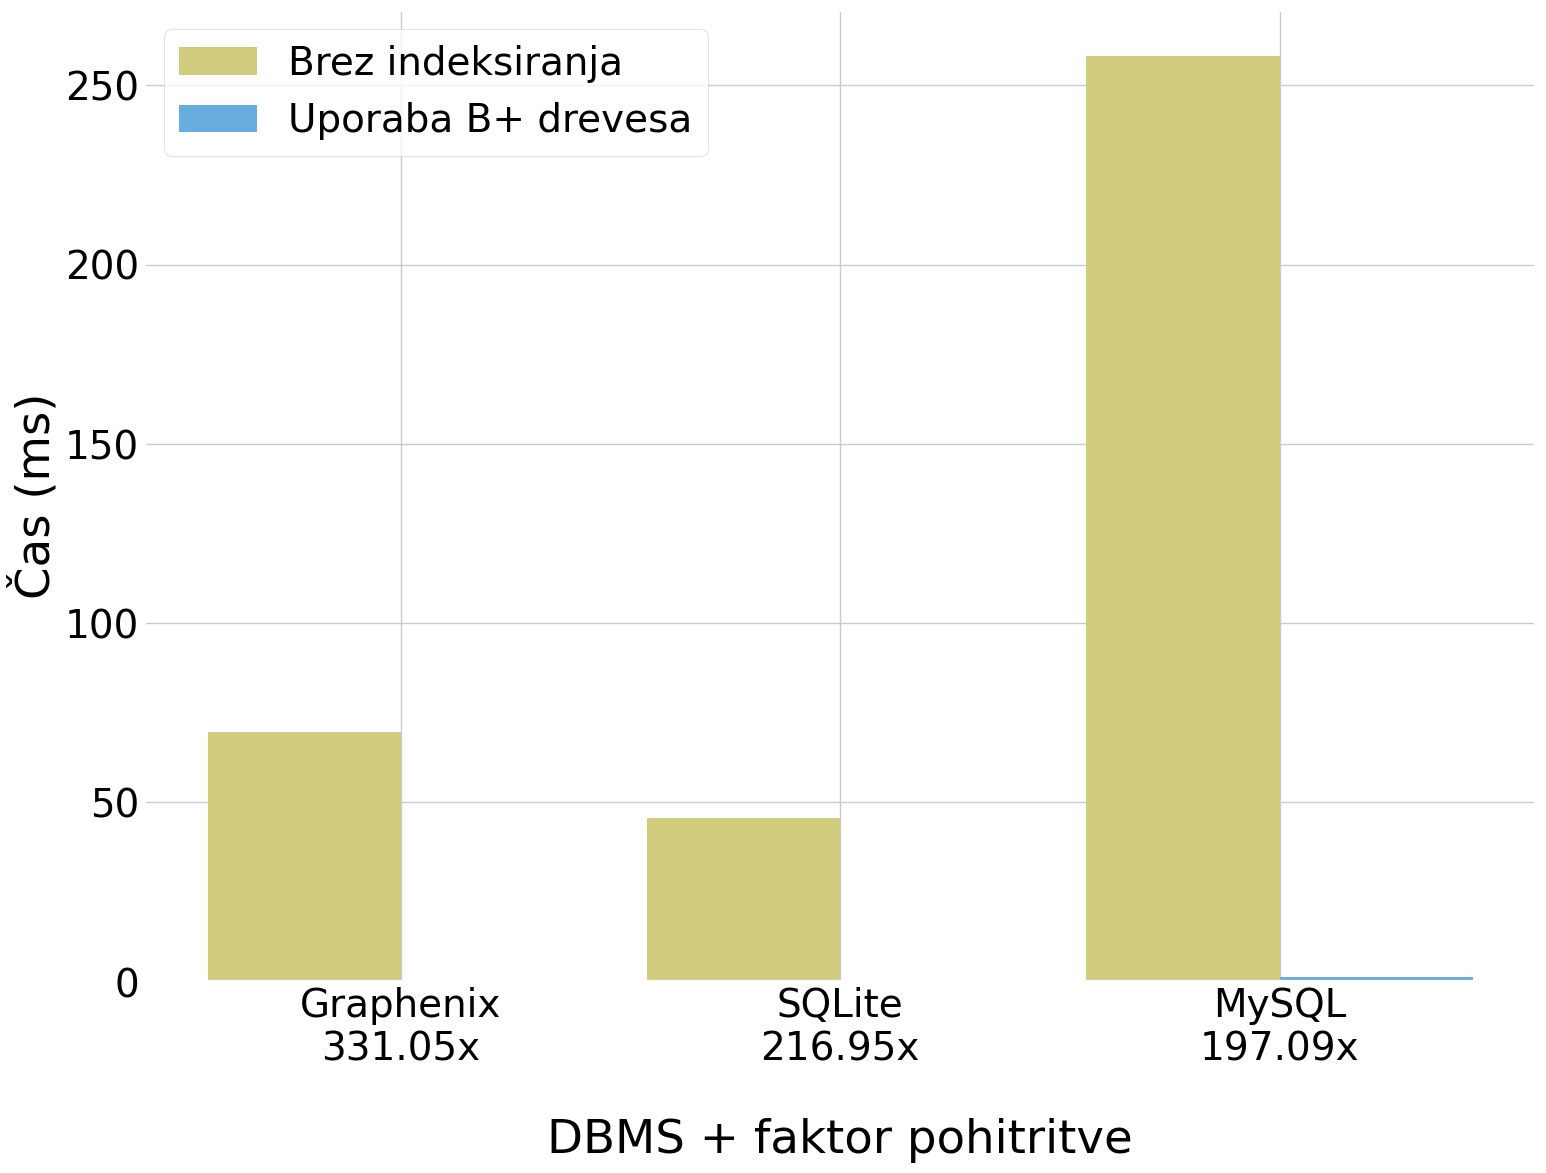
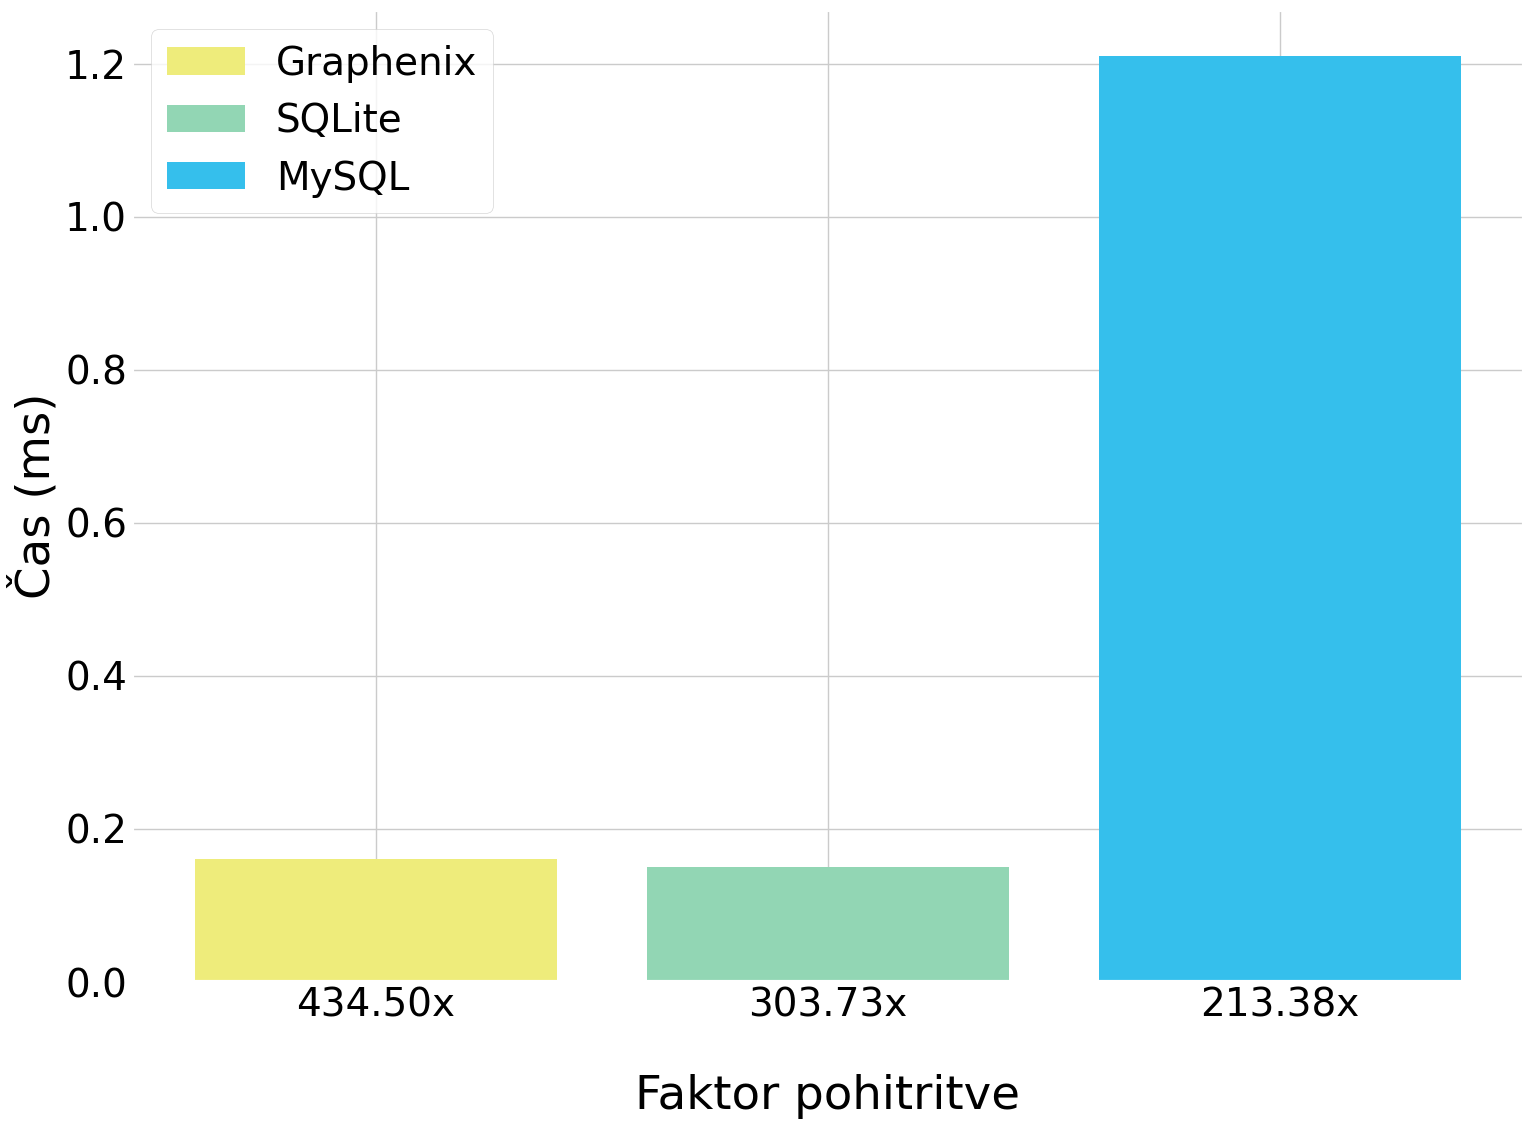
cleaner analysis for bigger indexed search

diff --git a/analysis/find_no_index/graph_size_single.py b/analysis/find_no_index/graph_size_single.py
@@ -1,0 +1,62 @@
+import numpy as np
+import matplotlib.pyplot as plt
+import sys
+
+def read_nums(file_path): 
+    try:
+        with open(file_path, 'r') as file:
+            lines = file.readlines()
+            times = [float(line.strip()) for line in lines]
+        return np.array(times)
+    except Exception as ex:
+        print("err", ex)
+        return []
+
+def main():
+    num_users = int(sys.argv[1])
+    file_indexed_1 = f'./analysis/find_index/result_{num_users}.txt'
+    file_normal_1 =  f'./analysis/find_no_index/result_{num_users}.txt'
+    
+    no_index = read_nums(file_normal_1) 
+    indexed = read_nums(file_indexed_1)
+
+    plt.style.use("fivethirtyeight")
+    plt.rcParams['figure.facecolor'] = 'white'
+    plt.rcParams['axes.facecolor'] = 'white'
+    plt.rcParams['axes.edgecolor'] = 'white'
+    plt.rcParams.update({'font.size': 2 * plt.rcParams['font.size']})
+
+    x_values = np.arange(3)
+    fig, ax = plt.subplots(figsize=(16, 12))
+    
+    ax.bar(x_values, indexed, label=['Graphenix', 'SQLite', 'MySQL'], color=['#EEEC7B', '#92D6B4', '#35BFEC'])
+
+    # Set labels and title
+    ax.set_xlabel('Faktor pohitritve')
+    ax.set_ylabel('Čas (ms)')
+    ax.set_title('')
+    ax.set_xticks(x_values)
+    speedups = no_index / indexed
+    ax.set_xticklabels([
+        f'{speedups[0]:.2f}x\n',
+        f'{speedups[1]:.2f}x\n',
+        f'{speedups[2]:.2f}x\n'
+    ])
+
+    # for bar in bars:
+    #     height = more.get_height()
+    #     bottom_offset = 0.5
+    #     ax.text(more.get_x() + more.get_width() / 2, height + bottom_offset, f'{height:.2f}x', 
+    #             ha='center', va='bottom', fontweight='normal')
+    #     
+    #     iheight = less.get_height()
+    #     ax.text(less.get_x() + less.get_width() / 2, iheight + bottom_offset, f'{(iheight):.2f}x', 
+    #             ha='center', va='bottom', fontweight='normal')
+        
+    ax.legend(loc='upper left')
+    plt.savefig(f'./analysis/graphs/indexing_speedup_{num_users}_v2.png', bbox_inches='tight', facecolor='white')
+    plt.close()
+    
+
+if __name__ == '__main__':
+    main()
